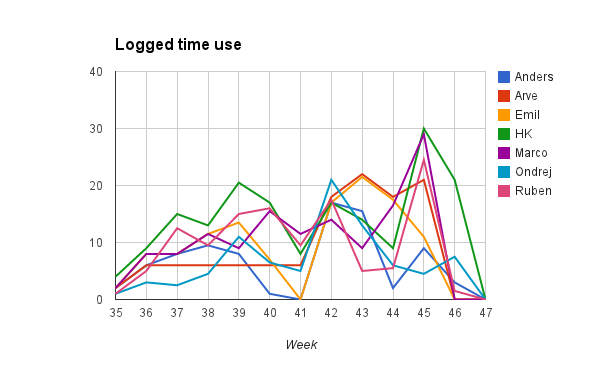
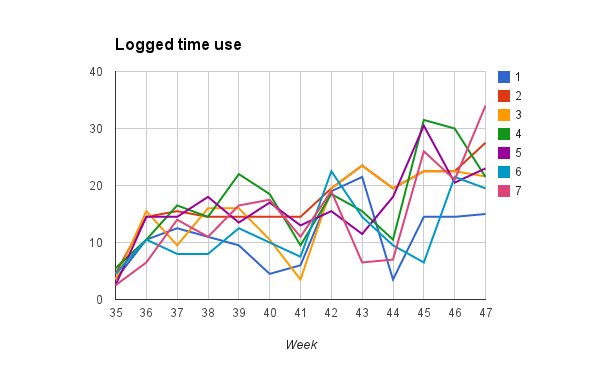
Update time figures and tables

diff --git a/report.tex b/report.tex
@@ -2899,27 +2899,27 @@ In this section, we will lay out the time usage of the team throughout the proje
 \begin{center}
 \begin{tabular}{llc}
 \multicolumn{1}{c}{Team member} & \multicolumn{1}{c}{\begin{tabular}[c]{@{}c@{}}Total\\ work hours\end{tabular}} & Sick days \\ \hline
-1 Anders                        & 67,5                                                                           & 4          \\
-2 Arve                          & 156                                                                            & 10        \\
-3 Emil                          & 119,5                                                                               & 3          \\
-4 HK                            & 164,5                                                                          &           \\
-5 Marco                         & 134,5                                                                             &           \\
-6 Ondrej                        & 78                                                                           & 4          \\
-7 Ruben                         & 103,5                                                                            & 3          \\ \hline
-Total                           & 823,5                                                                            & 24         
+1                        & 168                                                                           & 4          \\
+2                          & 269                                                                            & 4        \\
+3                          & 216                                                                               & 3          \\
+4                            & 225                                                                          &           \\
+5                         & 228.5                                                                             &           \\
+6                        & 154.5                                                                           & 4          \\
+7                         & 192                                                                            & 3          \\ \hline
+Total                           & 1453                                                                            & 18         
 \end{tabular}
-\caption{The total amount of time spent on the project}
+\caption{The total amount of time spent on the project.} The names of each team member has been anonymized.
 \label{tab:TotalTimeUsage}
 \end{center}
 \end{table}
 
 \begin{figure}[ht!]
 \begin{center}
-\fbox{\includegraphics[width=400px]{img/Weekly_effort.png}}
+\fbox{\includegraphics[width=350px]{img/Weekly_effort.png}}
 \caption{The weekly logged effort of team members}
 \label{fig:WeeklyEffort}
-\fbox{\includegraphics[width=400px]{img/Individual_effort.png}}
-\caption{The individual logged effort of team members}
+\fbox{\includegraphics[width=350px]{img/Individual_effort.png}}
+\caption{The individual logged effort of team members.}The names of each team member has been anonymized.
 \label{fig:IndividualEffort}
 \end{center}
 \end{figure}
